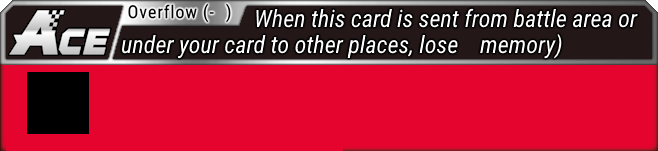
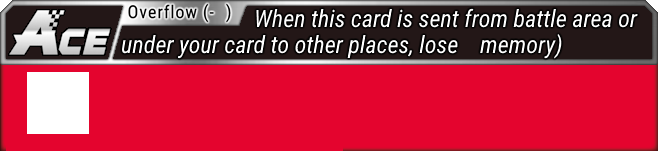
0.6.26.1 ACE ESS, too

Changed region(s): [[0.0304, 0.4768, 0.152, 0.9007]]

diff --git a/src/CustomCreator.js b/src/CustomCreator.js
@@ -35,8 +35,8 @@ import RadioGroup from './RadioGroup';
 import { Base64 } from 'js-base64';
 import pako from 'pako';
 
-const version = "0.6.26.0";
-const latest = "make egg ESS transparent again"
+const version = "0.6.26.1";
+const latest = "make ACE ESS transparent; make egg ESS transparent again"
 
 // versioj 0.6.25.x fix white inherit boxes;effect box improvements; black (white) attribute bar improvements
 // version 0.6.24 fix offsets for black bar on eggs; not quite pixel perfect
@@ -1126,13 +1126,21 @@ Author: MuqRei
       let ess_i_height = (Number(imageOptions.ess_y_end) - Number(imageOptions.ess_y_pos)) * back_img.height / 100
       let ess_x = Number(imageOptions.ess_x_pos) * back_img.width / 100
       let ess_y = Number(imageOptions.ess_y_pos) * back_img.height / 100
-      let ess_height = 3700;
-      if (type === "MEGA" || type.startsWith("OPTION")) ess_height = 0;
-      if (type === "TAMERINHERIT") ess_height -= 105
-      if (ess_height) {
+      let ess_pos_y = 3700;
+      let ess_pos_x = 240;
+      let size = 350;
+      if (type === "MEGA" || type === "OPTION" || type === "TAMER") ess_pos_y = 0;
+      if (type.endsWith("INHERIT")) ess_pos_y -= 105;
+      if (type === "EGG") ess_pos_y -= 80;
+      if (type === "ACE") {
+          ess_pos_y += 135;
+          ess_pos_x += 30;
+          size = 250;
+      }
+      if (ess_pos_y) {
         ctx.drawImage(back_img,
           ess_x, ess_y, ess_i_width, ess_i_height,
-          240, ess_height, 350, 350,
+          ess_pos_x, ess_pos_y, size, size
         );
       }
 
